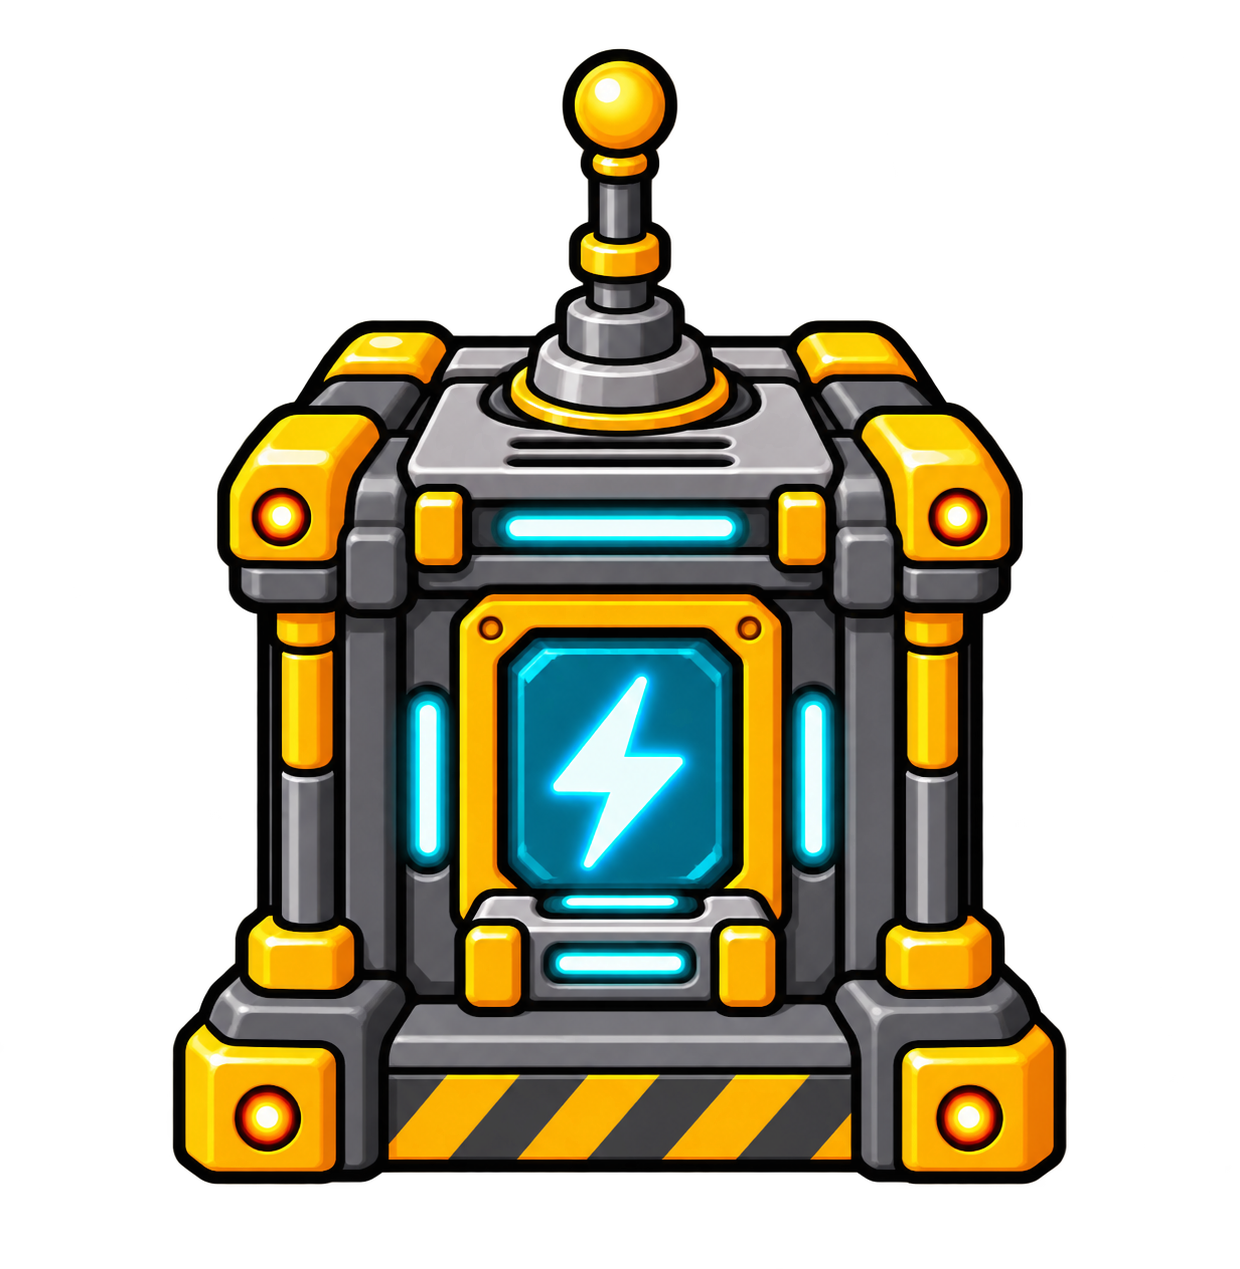
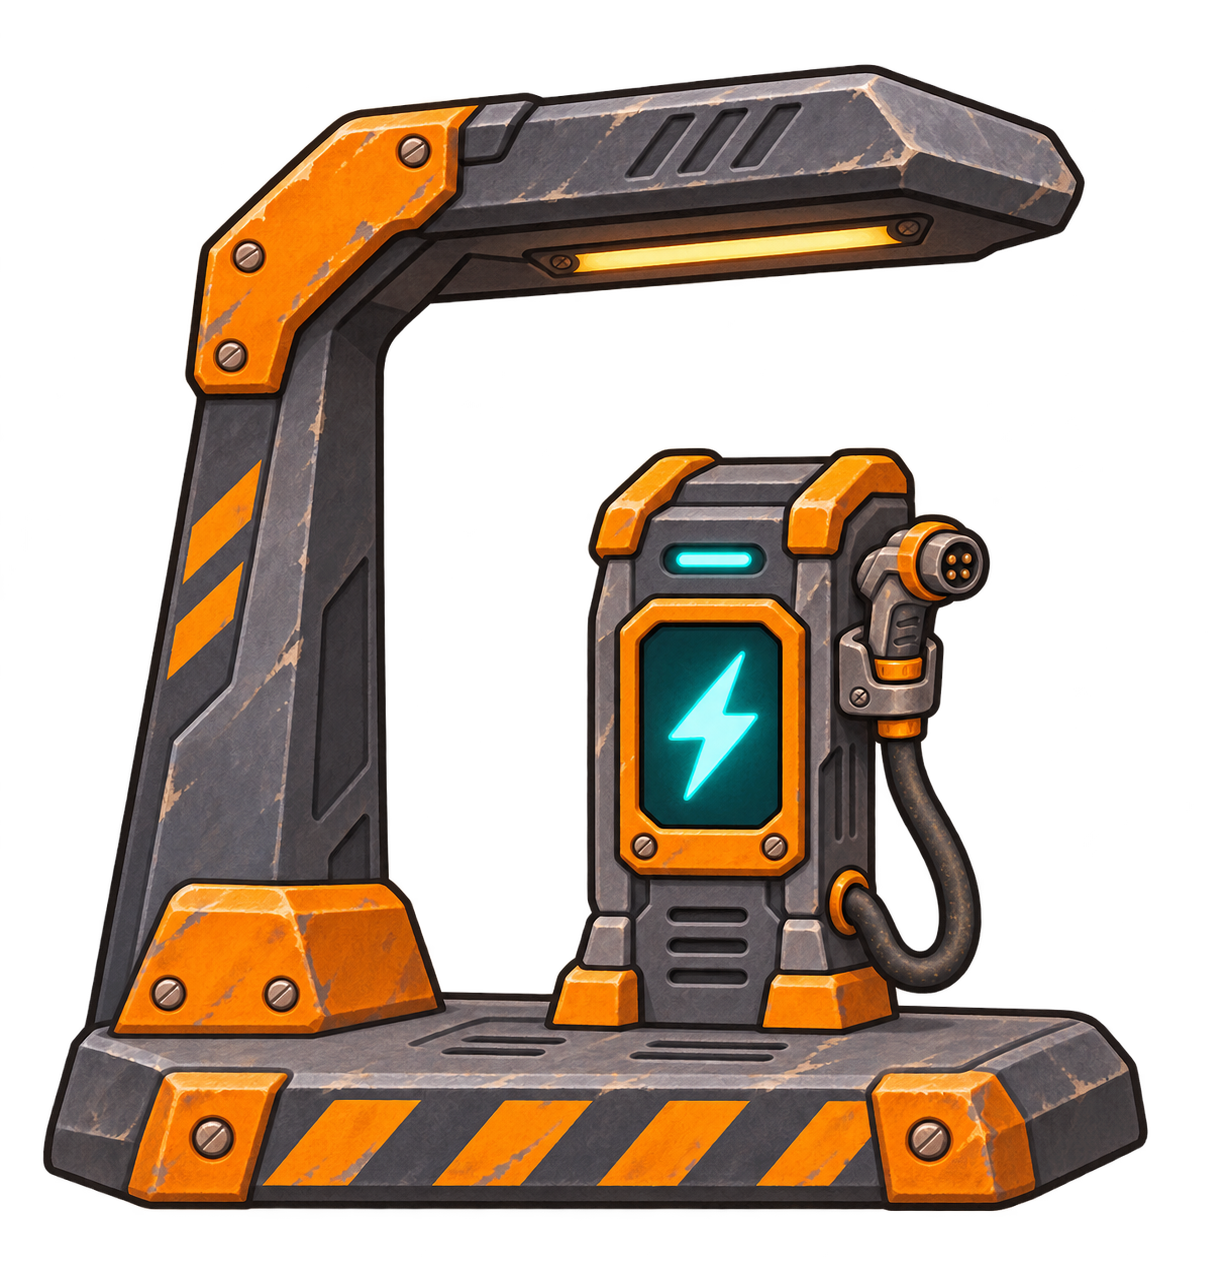
art: apply approved canopy charger in game

diff --git a/sub-terra/Assets/_Project/Scripts/Gameplay/Building/FacilityGroundedVisual.cs b/sub-terra/Assets/_Project/Scripts/Gameplay/Building/FacilityGroundedVisual.cs
@@ -76,18 +76,17 @@ namespace SubTerra.Gameplay.Building
         public static Bounds GetVisibleBounds(Sprite sprite)
         {
             if (meshBounds.TryGetValue(sprite, out Bounds bounds)) return bounds;
-            // Measured opaque bounds (alpha >= 64) of the unchanged source PNGs.
+            // Measured opaque bounds (alpha >= 64) of the source PNGs.
             // Sprite vertices can include transparent margins. Never align those margins to the floor.
             Rect pixels = default;
             Texture2D texture = sprite.texture;
             if (texture.name == "emergency_escape_portal_v1" && texture.width == 1254 && texture.height == 1254)
                 pixels = Rect.MinMaxRect(49f, 140f, 1205f, 1112f);
-            else if (texture.name == "charger_basic_cartoon_v2" && texture.width == 1240 && texture.height == 1269)
-                pixels = Rect.MinMaxRect(184f, 79f, 1073f, 1227f);
+            else if ((texture.name == "charger_basic_cartoon_v2" || texture.name == "ChargerGrounded")
+                && texture.width == 1228 && texture.height == 1281)
+                pixels = Rect.MinMaxRect(43f, 70f, 1148f, 1217f);
             else if (texture.name == "storage_basic_cartoon_v2" && texture.width == 1312 && texture.height == 1199)
                 pixels = Rect.MinMaxRect(74f, 96f, 1257f, 1098f);
-            else if (texture.name == "ChargerGrounded" && texture.width == 1240 && texture.height == 1269)
-                pixels = Rect.MinMaxRect(173f, 84f, 1067f, 1220f);
             else if (texture.name == "StorageGrounded" && texture.width == 1315 && texture.height == 1196)
                 pixels = Rect.MinMaxRect(57f, 89f, 1258f, 1101f);
             else if (texture.name == "OutpostCoreTall" && texture.width == 948 && texture.height == 1659)
